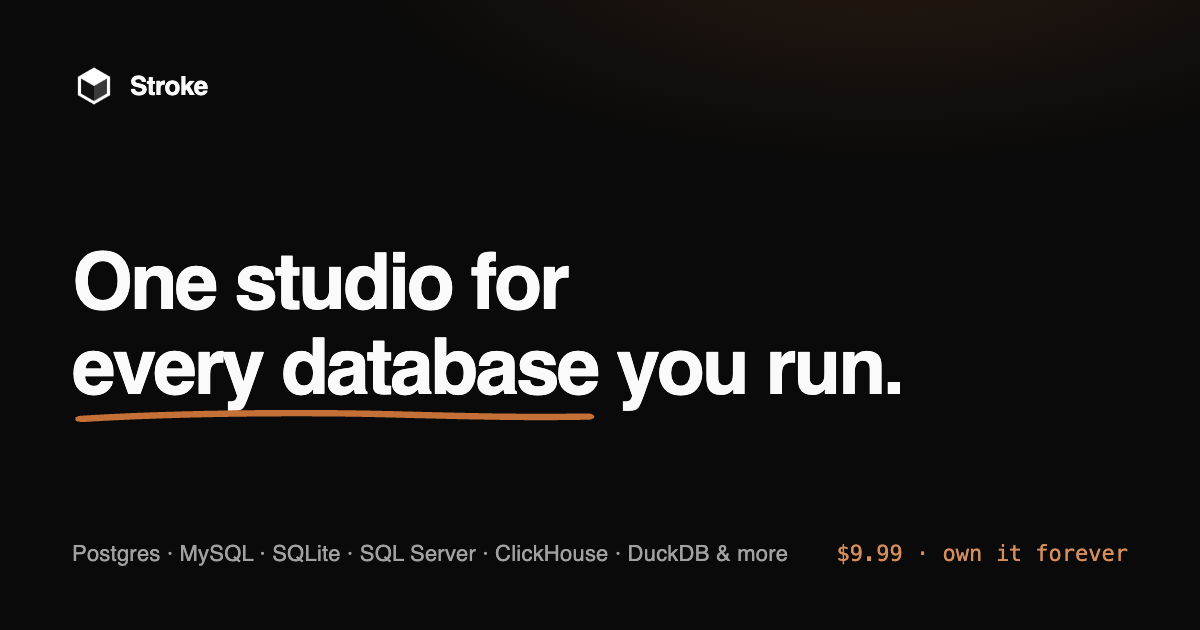
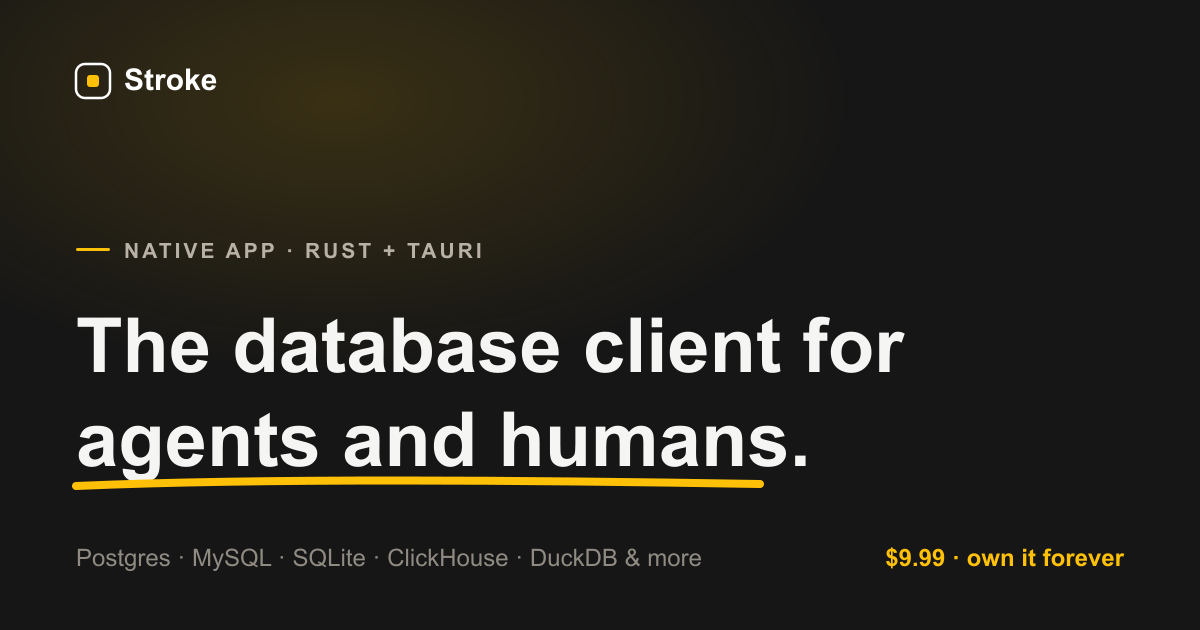
feat(og): new share image + tagline "database client for agents and humans"
- Regenerate public/og.png (1200x630) on the #161616 dark theme with the amber
  accent and the new "The database client for agents and humans." headline.
- Update the home page SEO/OG title, description, and structured data from the
  old "one studio for every database" line to the agents-and-humans positioning
  (this also fixes the social-card caption).

Changed region(s): [[0.0, 0.0, 0.7708, 0.7841], [0.0617, 0.8444, 0.9558, 0.9048]]

diff --git a/src/routes/index.tsx b/src/routes/index.tsx
@@ -11,7 +11,7 @@ const STRUCTURED_DATA = {
   operatingSystem: "macOS, Windows, Linux",
   applicationCategory: "DeveloperApplication",
   description:
-    "A fast, native desktop database client for PostgreSQL, MySQL, SQLite, SQL Server, ClickHouse, DuckDB, and more, with a built-in MCP server for AI tools.",
+    "A modern, minimal desktop database client for PostgreSQL, MySQL, SQLite, SQL Server, ClickHouse, DuckDB, and more. Built in Rust and Tauri, with a built-in MCP server so AI agents can query your database.",
   url: SITE_URL,
   downloadUrl: `${SITE_URL}/download`,
   offers: {
@@ -29,9 +29,9 @@ export const Route = createFileRoute("/")({
   },
   head: () => ({
     ...seo({
-      title: "Stroke · One studio for every database you run",
+      title: "Stroke · The database studio for agents and humans",
       description:
-        "A fast database GUI for PostgreSQL, MySQL, SQLite, SQL Server, ClickHouse, DuckDB, and more. Browse schemas, edit data, write SQL, and let AI query your database via MCP. Free to try, $9.99 to own it forever.",
+        "A modern, minimal database client for PostgreSQL, MySQL, SQLite, SQL Server, ClickHouse, DuckDB, and more. Browse schemas, edit data, and write SQL, while your AI agents query the same database through the built-in MCP server. Built in Rust and Tauri. Free to try, $9.99 to own it forever.",
       path: "/",
     }),
     scripts: [

diff --git a/.claude/phobos-state.md b/.claude/phobos-state.md
@@ -1,20 +1,14 @@
 # phobos state
 
-_generated 2026-07-13T05:01Z · git 4e94763 (master), 14 uncommitted — a snapshot, not the source of truth. Re-verify any file or line below against the live tree before acting on it._
+_generated 2026-07-19T00:27Z · git 2ea8f31 (worktree-plunk-mail), 1 uncommitted — a snapshot, not the source of truth. Re-verify any file or line below against the live tree before acting on it._
 
 ## Working set (uncommitted)
 
-- .env.production
-- package.json
-- pnpm-lock.yaml
-- src/components/download-button.tsx
-- src/components/sign-out-button.tsx
-- src/env/client.ts
-- src/env/server.ts
-- src/routeTree.gen.ts
+- .claude/phobos-activity.log
 
 ## Recent activity
 
 edited: \_\_root.tsx, client.ts, posthog-provider.tsx · 4.8k out
 edited: .dev.vars, .env, .env.production, download-button.tsx, index.tsx +3 more · 15.4k out
 edited: $.ts, posthog-provider.tsx · 13.4k out
+edited: auth.ts, client.ts · 57.5k out
